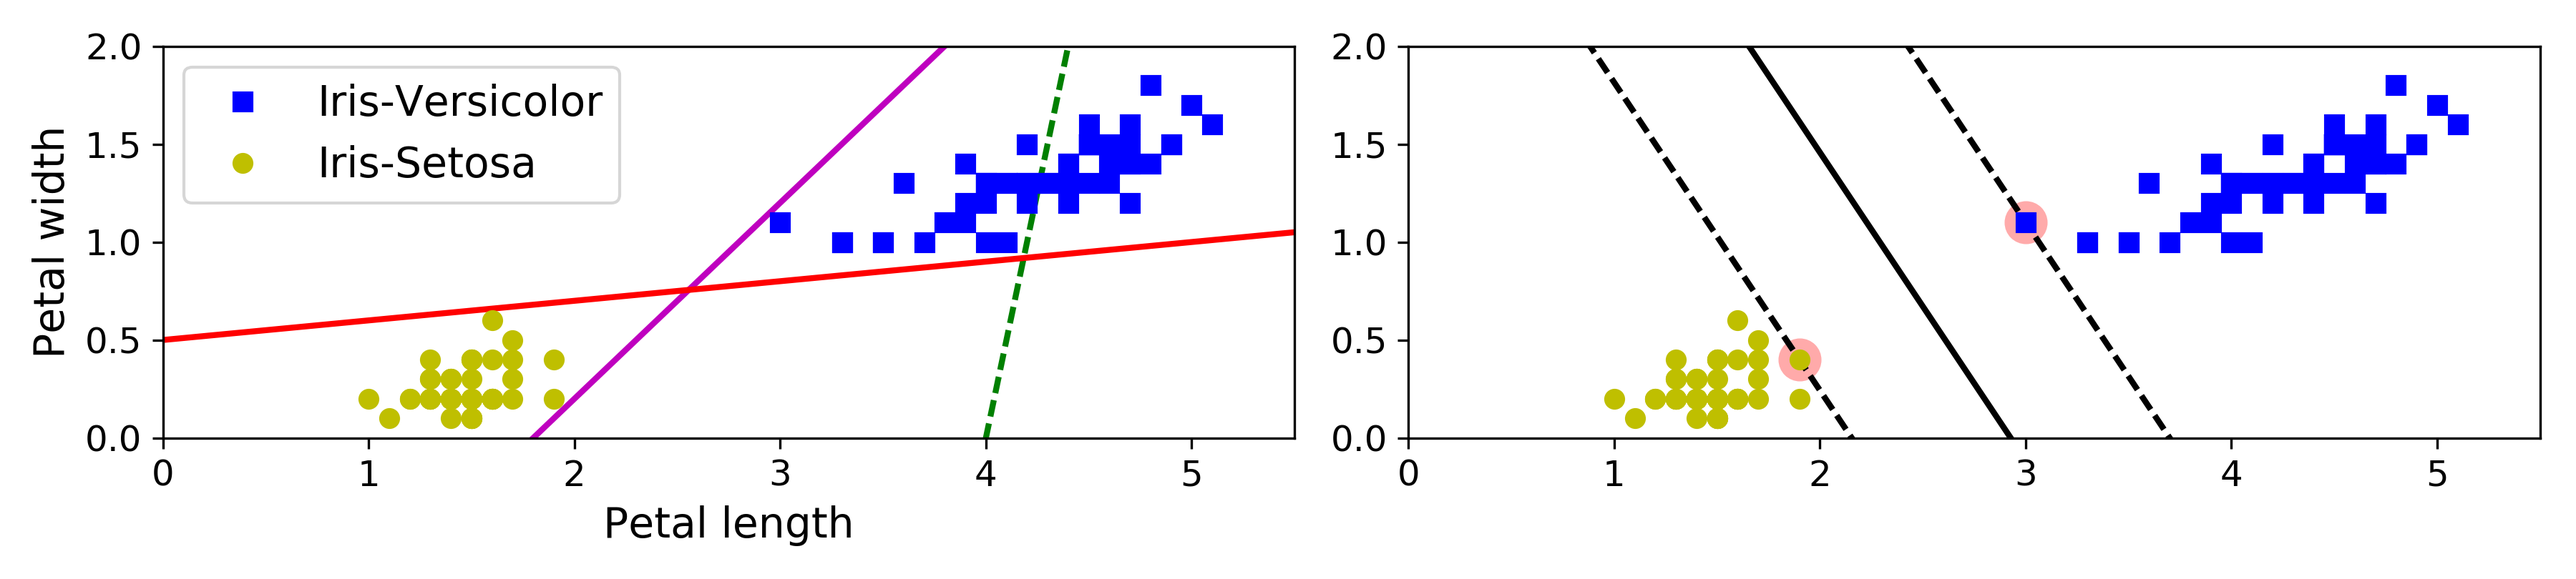
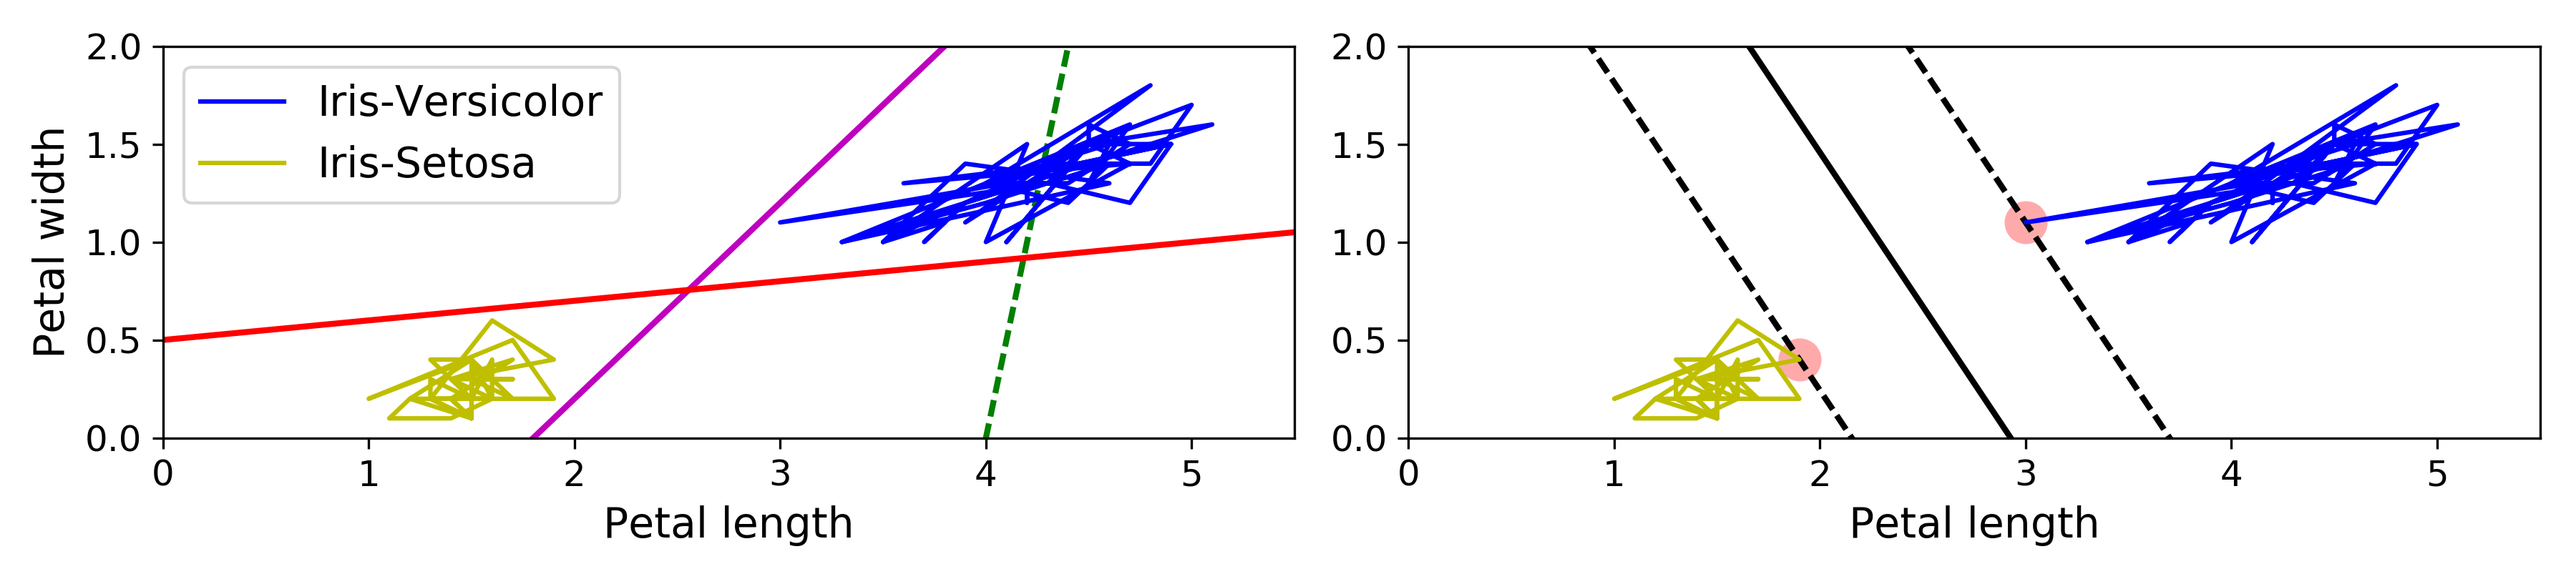
add some comments, and add nonlinear SVC, comments needed

diff --git a/Support_Vector_Machines/SVM.py b/Support_Vector_Machines/SVM.py
@@ -7,6 +7,7 @@ import matplotlib.pyplot as plt
 import sklearn.svm
 import sklearn.datasets
 import sklearn.preprocessing
+import sklearn.pipeline
 
 np.random.seed(42)
 PROJECT_ROOT_DIR = os.getcwd()
@@ -17,6 +18,12 @@ plt.rcParams["ytick.labelsize"] = 12
 
 
 def save_fig(fig_id, tight_layout=True):
+    """
+    Save the previous plotted image as .png file.
+    :param fig_id: name of the image
+    :param tight_layout: Automatically adjust subplot parameters to give specified padding.
+    :return: 
+    """
     assert isinstance(fig_id, str), "Must be a string."
     if not os.path.exists(os.path.join(PROJECT_ROOT_DIR, "images")):
         os.makedirs(os.path.join(PROJECT_ROOT_DIR, "images"))
@@ -32,7 +39,9 @@ iris = sklearn.datasets.load_iris()
 X = iris["data"][:, (2, 3)]  # petal length, petal width
 y = iris["target"]
 
-setosa_or_versicolor = (y == 0) | (y == 1)  # | 按位或运算，在这里是什么意思？
+setosa_or_versicolor = (y == 0) | (y == 1)  # | 按位或运算
+# 在布尔值的运算中，"按位或"就是"或"的意思
+# 生成只含有setosa和versicolor两种Iris的训练集
 X = X[setosa_or_versicolor]
 y = y[setosa_or_versicolor]
 
@@ -40,28 +49,39 @@ y = y[setosa_or_versicolor]
 svm_clf = sklearn.svm.SVC(kernel="linear", C=float("inf"))
 svm_clf.fit(X, y)
 
-# Bad models
+# # Bad models
 x0 = np.linspace(0, 5.5, 200)
+# 下面是三条手动设定的直线
 pred_1 = 5 * x0 - 20
 pred_2 = x0 - 1.8
 pred_3 = 0.1 * x0 + 0.5
 
 
 def plot_svc_decision_boundary(svm_clf, xmin, xmax):
-    w = svm_clf.coef_[0]
-    b = svm_clf.intercept_[0]
+    """
+    plot the decision boundary as well as the upper- and lower-gutter and the supoort vectors.
+    At the decision boundary, w0*x0 + w1*x1 + b = 0 
+    => decision_boundary (x1) = -w0/w1 * x0 - b/w1
+    :param svm_clf: an instance of sklearn.svm.SVC
+    :param xmin: min value of x0
+    :param xmax: max value of x0
+    :return: 
+    """
+    w = svm_clf.coef_[0]  # [0]将.coef_最外层的大括号去掉
+    b = svm_clf.intercept_[0]  # 获得直线的截距
 
-    # At the decision boundary, w0*x0 + w1*x1 + b = 0
+    # At the decision boundary, w0*x0 + w1*x1 + b = 0 这是一条直线
     # => x1 = -w0/w1 * x0 - b/w1
     x0 = np.linspace(xmin, xmax, 200)
     decision_boundary = -w[0] / w[1] * x0 - b / w[1]
 
+    # 生成决策边界上下两条虚线
     margin = 1 / w[1]
     gutter_up = decision_boundary + margin
     gutter_down = decision_boundary - margin
 
-    svs = svm_clf.support_vectors_
-    plt.scatter(svs[:, 0], svs[:, 1], s=180, facecolors='#FFAAAA')
+    svs = svm_clf.support_vectors_  # support_vectors_: 真正影响决策边界的数据子集
+    plt.scatter(svs[:, 0], svs[:, 1], s=180, facecolors='#FFAAAA')  # s点的大小， facecolors点的颜色
     plt.plot(x0, decision_boundary, "k-", linewidth=2)
     plt.plot(x0, gutter_up, "k--", linewidth=2)
     plt.plot(x0, gutter_down, "k--", linewidth=2)
@@ -69,21 +89,24 @@ def plot_svc_decision_boundary(svm_clf, xmin, xmax):
 
 plt.figure(figsize=(12, 2.7))
 
+# 绘制手动生成的"坏"决策边界
 plt.subplot(121)
 plt.plot(x0, pred_1, "g--", linewidth=2)
 plt.plot(x0, pred_2, "m-", linewidth=2)
 plt.plot(x0, pred_3, "r-", linewidth=2)
-plt.plot(X[:, 0][y == 1], X[:, 1][y == 1], "bs", label="Iris-Versicolor")
-plt.plot(X[:, 0][y == 0], X[:, 1][y == 0], "yo", label="Iris-Setosa")
+plt.plot(X[:, 0][y == 1], X[:, 1][y == 1], "b-", label="Iris-Versicolor")
+plt.plot(X[:, 0][y == 0], X[:, 1][y == 0], "y-", label="Iris-Setosa")
 plt.xlabel("Petal length", fontsize=14)
 plt.ylabel("Petal width", fontsize=14)
 plt.legend(loc="upper left", fontsize=14)
 plt.axis([0, 5.5, 0, 2])
 
+# 绘制由支持向量生成的决策边界
 plt.subplot(122)
 plot_svc_decision_boundary(svm_clf, 0, 5.5)
-plt.plot(X[:, 0][y == 1], X[:, 1][y == 1], "bs")
-plt.plot(X[:, 0][y == 0], X[:, 1][y == 0], "yo")
+plt.plot(X[:, 0][y == 1], X[:, 1][y == 1], "b-")
+plt.plot(X[:, 0][y == 0], X[:, 1][y == 0], "y-")
+plt.xlabel("Petal length", fontsize=14)
 plt.axis([0, 5.5, 0, 2])
 
 save_fig("large_margin_classification_plot")
@@ -127,6 +150,7 @@ Xo2 = np.concatenate([X, X_outliers[1:]], axis=0)
 yo2 = np.concatenate([y, y_outliers[1:]], axis=0)
 
 svm_clf2 = sklearn.svm.SVC(kernel="linear", C=10 ** 9)  # float("inf"))
+# 这里的参数C设定得非常大，因此对outlier非常敏感。
 svm_clf2.fit(Xo2, yo2)
 
 plt.figure(figsize=(12, 2.7))
@@ -161,3 +185,195 @@ plt.annotate("Outlier",
 plt.axis([0, 5.5, 0, 2])
 
 save_fig("sensitivity_to_outliers_plot")
+
+# # Large margin vs margin violations
+# 生成一个只区分是不是Iris-Virginica的训练集
+iris = sklearn.datasets.load_iris()
+X = iris["data"][:, (2, 3)]
+y = (iris["target"] == 2).astype(np.float64)  # np.float64将布尔值转换成数值
+
+scaler = sklearn.preprocessing.StandardScaler()
+svm_clf1 = sklearn.svm.LinearSVC(C=100, loss="hinge")
+svm_clf2 = sklearn.svm.LinearSVC(C=1, loss="hinge")
+
+scaled_svm_clf1 = sklearn.pipeline.Pipeline(
+    [
+        ("scaler", scaler),
+        ("linear_svc", svm_clf1),
+    ]
+)
+
+scaled_svm_clf2 = sklearn.pipeline.Pipeline(
+    [
+        ("scaler", scaler),
+        ("linear_svc", svm_clf2),
+    ]
+)
+
+scaled_svm_clf1.fit(X, y)
+scaled_svm_clf2.fit(X, y)
+
+print(scaled_svm_clf1.predict([[5.5, 1.7]]))
+print(scaled_svm_clf2.predict([[5.5, 1.7]]))
+
+# Convert to unscaled parameters
+# 将正则化的数据非正则化的方法
+b1 = svm_clf1.decision_function([-scaler.mean_ / scaler.scale_])
+b2 = svm_clf2.decision_function([-scaler.mean_ / scaler.scale_])
+w1 = svm_clf1.coef_[0] / scaler.scale_
+w2 = svm_clf2.coef_[0] / scaler.scale_
+svm_clf1.intercept_ = np.array([b1])
+svm_clf2.intercept_ = np.array([b2])
+svm_clf1.coef_ = np.array([w1])
+svm_clf2.coef_ = np.array([w2])
+
+# Find support vectors (LinearSVC does not do this automatically)
+# 寻找支持向量的方法
+t = y * 2 - 1
+support_vectors_idx1 = (t * (X.dot(w1) + b1) < 1).ravel()
+support_vectors_idx2 = (t * (X.dot(w2) + b2) < 1).ravel()
+svm_clf1.support_vectors_ = X[support_vectors_idx1]
+svm_clf2.support_vectors_ = X[support_vectors_idx2]
+
+plt.figure(figsize=(12, 3.2))
+plt.subplot(121)
+plt.plot(X[:, 0][y == 1], X[:, 1][y == 1], "g^", label="Iris-Virginica")
+plt.plot(X[:, 0][y == 0], X[:, 1][y == 0], "bs", label="Iris-Versicolo or Setosa")
+plot_svc_decision_boundary(svm_clf1, 4, 6)
+plt.xlabel("Petal length", fontsize=14)
+plt.ylabel("Petal width", fontsize=14)
+plt.legend(loc="upper left", fontsize=14)
+plt.title("$C = {}$".format(svm_clf1.C), fontsize=16)
+plt.axis([4, 6, 0.8, 2.8])
+
+plt.subplot(122)
+plt.plot(X[:, 0][y == 1], X[:, 1][y == 1], "g^")
+plt.plot(X[:, 0][y == 0], X[:, 1][y == 0], "bs")
+plot_svc_decision_boundary(svm_clf2, 4, 6)
+plt.xlabel("Petal length", fontsize=14)
+plt.title("$C = {}$".format(svm_clf2.C), fontsize=16)
+plt.axis([4, 6, 0.8, 2.8])
+
+save_fig("regularization_plot")
+
+# # None-linear classification
+# plot two images to show the effect by adding features
+X1D = np.linspace(-4, 4, 9).reshape(-1, 1)
+X2D = np.c_[X1D, X1D ** 2]
+y = np.array([0, 0, 1, 1, 1, 1, 1, 0, 0])
+
+plt.figure(figsize=(11, 4))
+
+plt.subplot(121)
+plt.grid(True, which="both")
+plt.axhline(y=0, color="k")
+plt.plot(X1D[:, 0][y == 0], np.zeros(4), "bs")
+plt.plot(X1D[:, 0][y == 1], np.zeros(5), "g^")
+plt.gca().get_yaxis().set_ticks([])
+plt.xlabel("$x_1$", fontsize=20)
+plt.axis([-4.5, 4.5, -0.2, 0.2])
+
+plt.subplot(122)
+plt.grid(True, which="both")
+plt.axhline(y=0, color="k")
+plt.axvline(x=0, color="k")
+plt.plot(X2D[:, 0][y == 0], X2D[:, 1][y == 0], "bs")
+plt.plot(X2D[:, 0][y == 1], X2D[:, 1][y == 1], "g^")
+plt.xlabel("$x_1$", fontsize=20)
+plt.ylabel("$x_2$", fontsize=20)
+plt.gca().get_yaxis().set_ticks([0, 4, 8, 12, 16])
+plt.plot([-4.5, 4.5], [6.5, 6.5], "r--", linewidth=3)
+plt.axis([-4.5, 4.5, -1, 17])
+
+plt.subplots_adjust(right=1)
+
+save_fig("higher_dimensions_plot", tight_layout=False)
+
+# Test Nonlinear Classification using SVC and moons dataset
+X, y = sklearn.datasets.make_moons(n_samples=100, noise=0.15, random_state=42)
+
+
+def plot_dataset(X, y, axes):
+    """
+    
+    :param X: features
+    :param y: targets
+    :param axes: range of the plot
+    :return: 
+    """
+    plt.plot(X[:, 0][y == 0], X[:, 1][y == 0], "bs")
+    plt.plot(X[:, 0][y == 1], X[:, 1][y == 1], "g^")
+    plt.axis(axes)
+    plt.grid(True, which="both")
+    plt.xlabel("$x_1$", fontsize=20)
+    plt.ylabel("$x_2$", fontsize=20, rotation=0)
+
+
+plot_dataset(X, y, [-1.5, 2.5, -1, 1.5])
+save_fig("Moons datasets")
+
+# Adding features by creating a Pipeline containing a PolynomialFeatures transformer
+# followed by a StandardScaler and a LinearSVC.
+polynomial_svm_clf = sklearn.pipeline.Pipeline(
+    [
+        ("poly_features", sklearn.preprocessing.PolynomialFeatures(degree=3)),
+        ("scaler", sklearn.preprocessing.StandardScaler()),
+        ("svm_clf", sklearn.svm.LinearSVC(C=10, loss="hinge"))
+    ]
+)
+polynomial_svm_clf.fit(X, y)
+
+
+def plot_predictions(clf, axes):
+    """
+    
+    :param clf: 
+    :param axes: 
+    :return: 
+    """
+    x0s = np.linspace(axes[0], axes[1], 100)
+    x1s = np.linspace(axes[2], axes[3], 100)
+    x0, x1 = np.meshgrid(x0s, x1s)
+    X = np.c_[x0.ravel(), x1.ravel()]
+    y_pred = clf.predict(X).reshape(x0.shape)
+    y_decision = clf.decision_function(X).reshape(x0.shape)
+    plt.contourf(x0, x1, y_pred, cmap=plt.cm.brg, alpha=0.2)
+    plt.contourf(x0, x1, y_decision, cmap=plt.cm.brg, alpha=0.1)
+
+
+plot_predictions(polynomial_svm_clf, [-1.5, 2.5, -1, 1.5])
+plot_dataset(X, y, [-1.5, 2.5, -1, 1.5])
+
+save_fig("moons_polynomial_svc_plot")
+
+# Now, instead of using PolynomialFeatures plus LinearSVC
+# We use Polynomial Kernel in SVC directly
+poly_kernel_svm_clf = sklearn.pipeline.Pipeline(
+    [
+        ("scaler", sklearn.preprocessing.StandardScaler()),
+        ("svm_clf", sklearn.svm.SVC(kernel="poly", degree=3, coef0=1, C=5)),
+    ]
+)
+poly100_kernel_svm_clf = sklearn.pipeline.Pipeline(
+    [
+        ("scaler", sklearn.preprocessing.StandardScaler()),
+        ("svm_clf", sklearn.svm.SVC(kernel="poly", degree=10, coef0=100, C=5))
+    ]
+)
+poly_kernel_svm_clf.fit(X, y)
+poly100_kernel_svm_clf.fit(X, y)
+
+plt.figure(figsize=(11, 4))
+
+axes = [-1.5, 2.5, -1, 1.5]
+plt.subplot(121)
+plot_predictions(poly_kernel_svm_clf, axes)
+plot_dataset(X, y, axes)
+plt.title("$d=3, r=1, C=5$", fontsize=18)
+
+plt.subplot(122)
+plot_predictions(poly100_kernel_svm_clf, axes)
+plot_dataset(X, y, axes)
+plt.title("$d=10, r=100, C=5$", fontsize=18)
+
+save_fig("moons_kernelized_polynomial_svc_plot")
